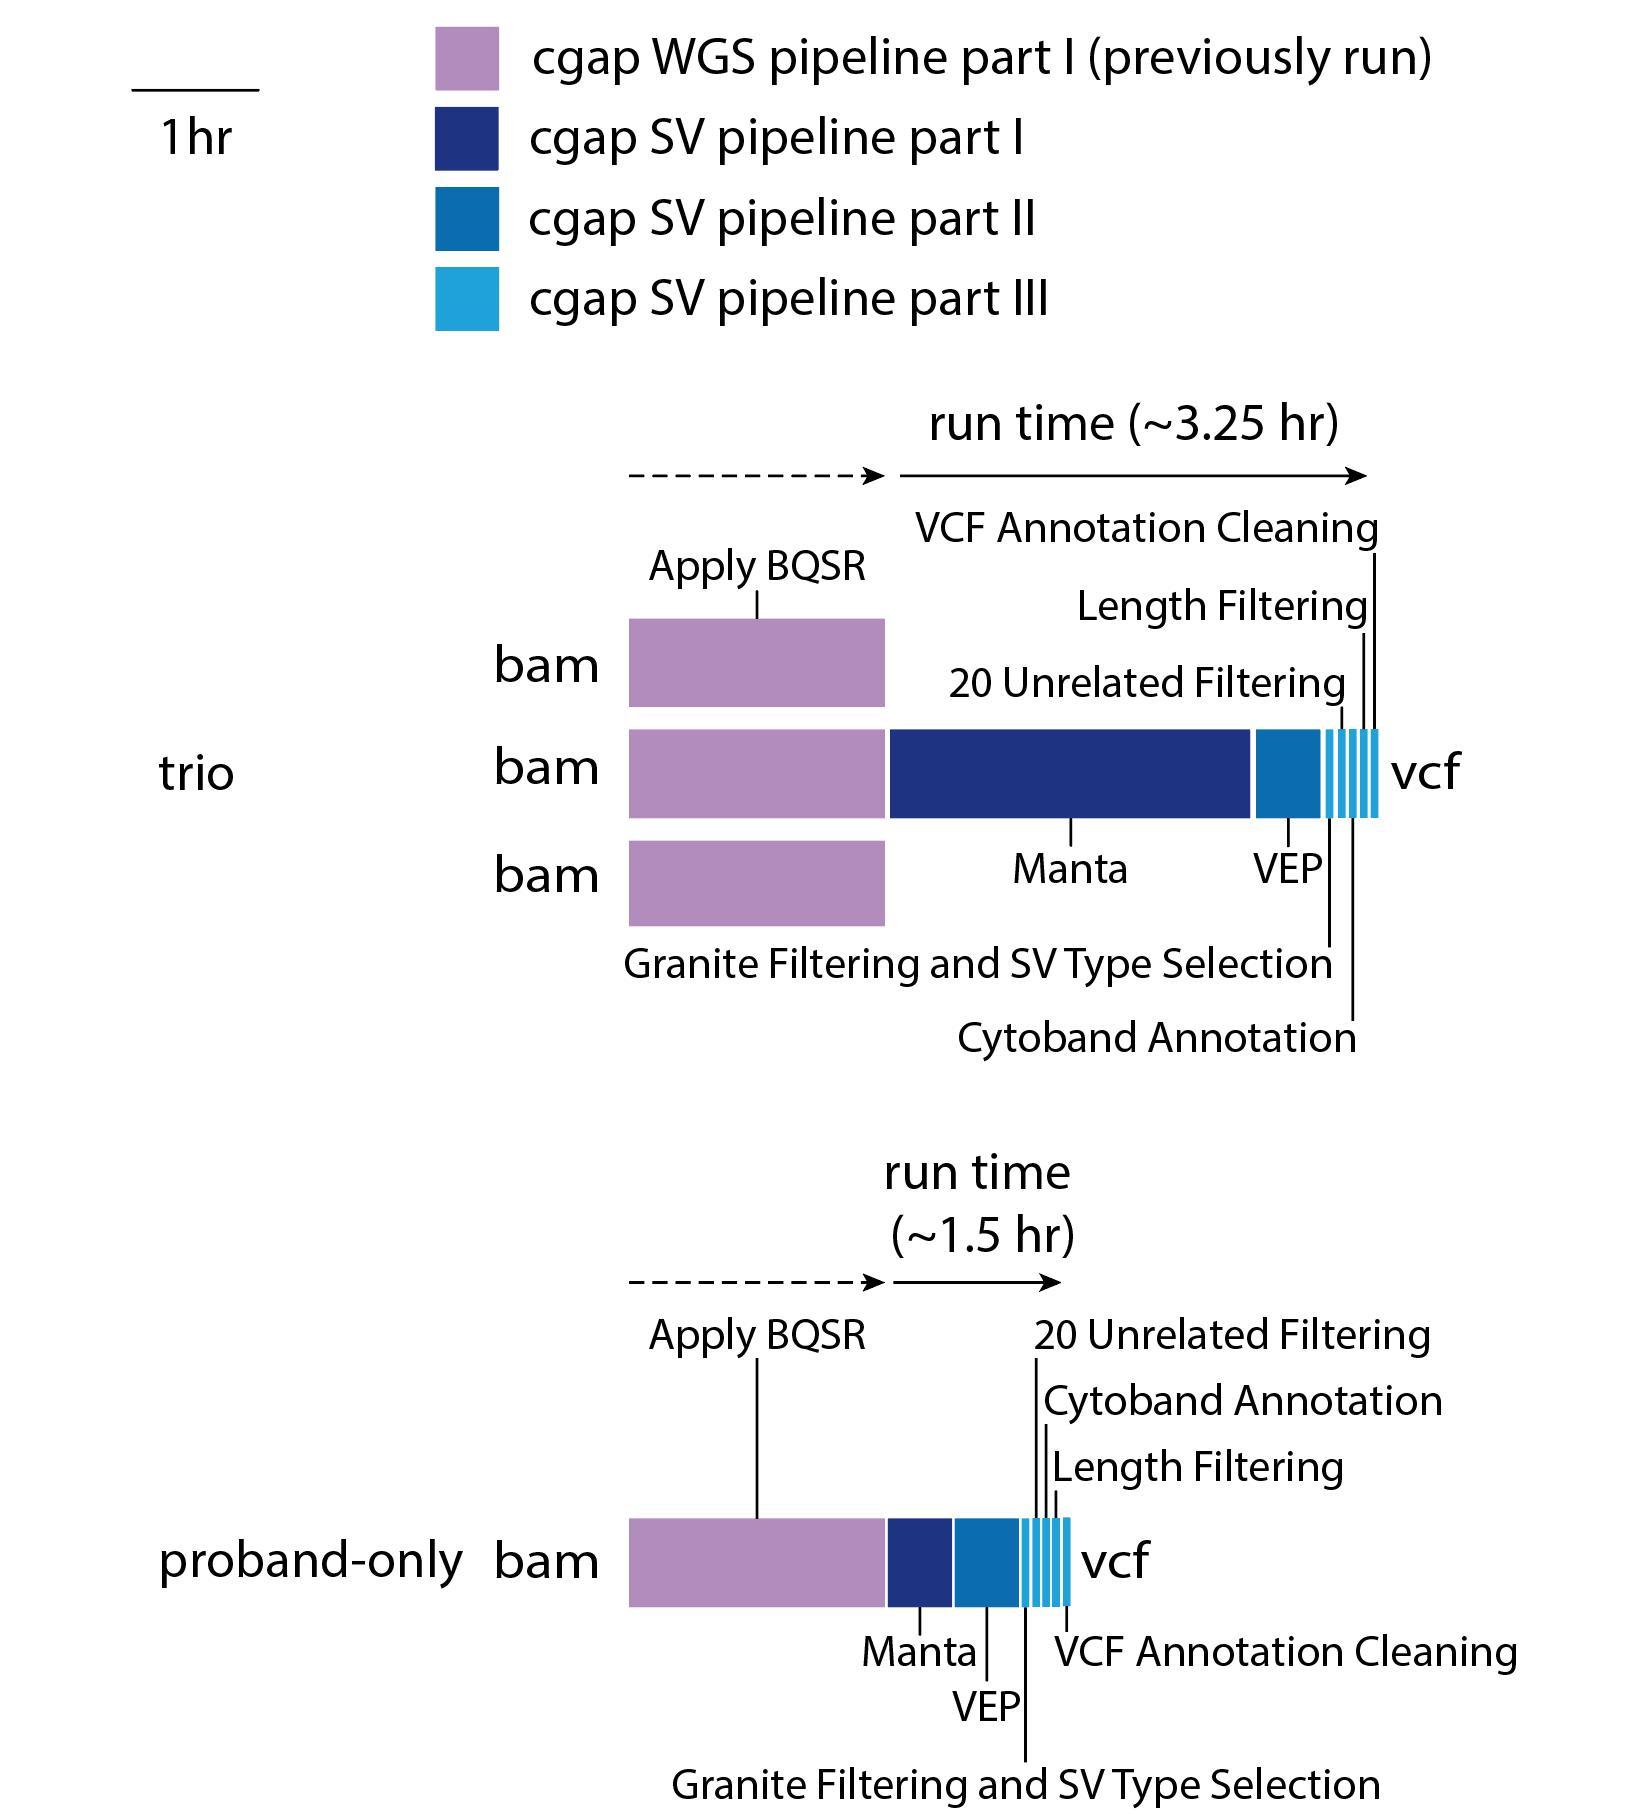
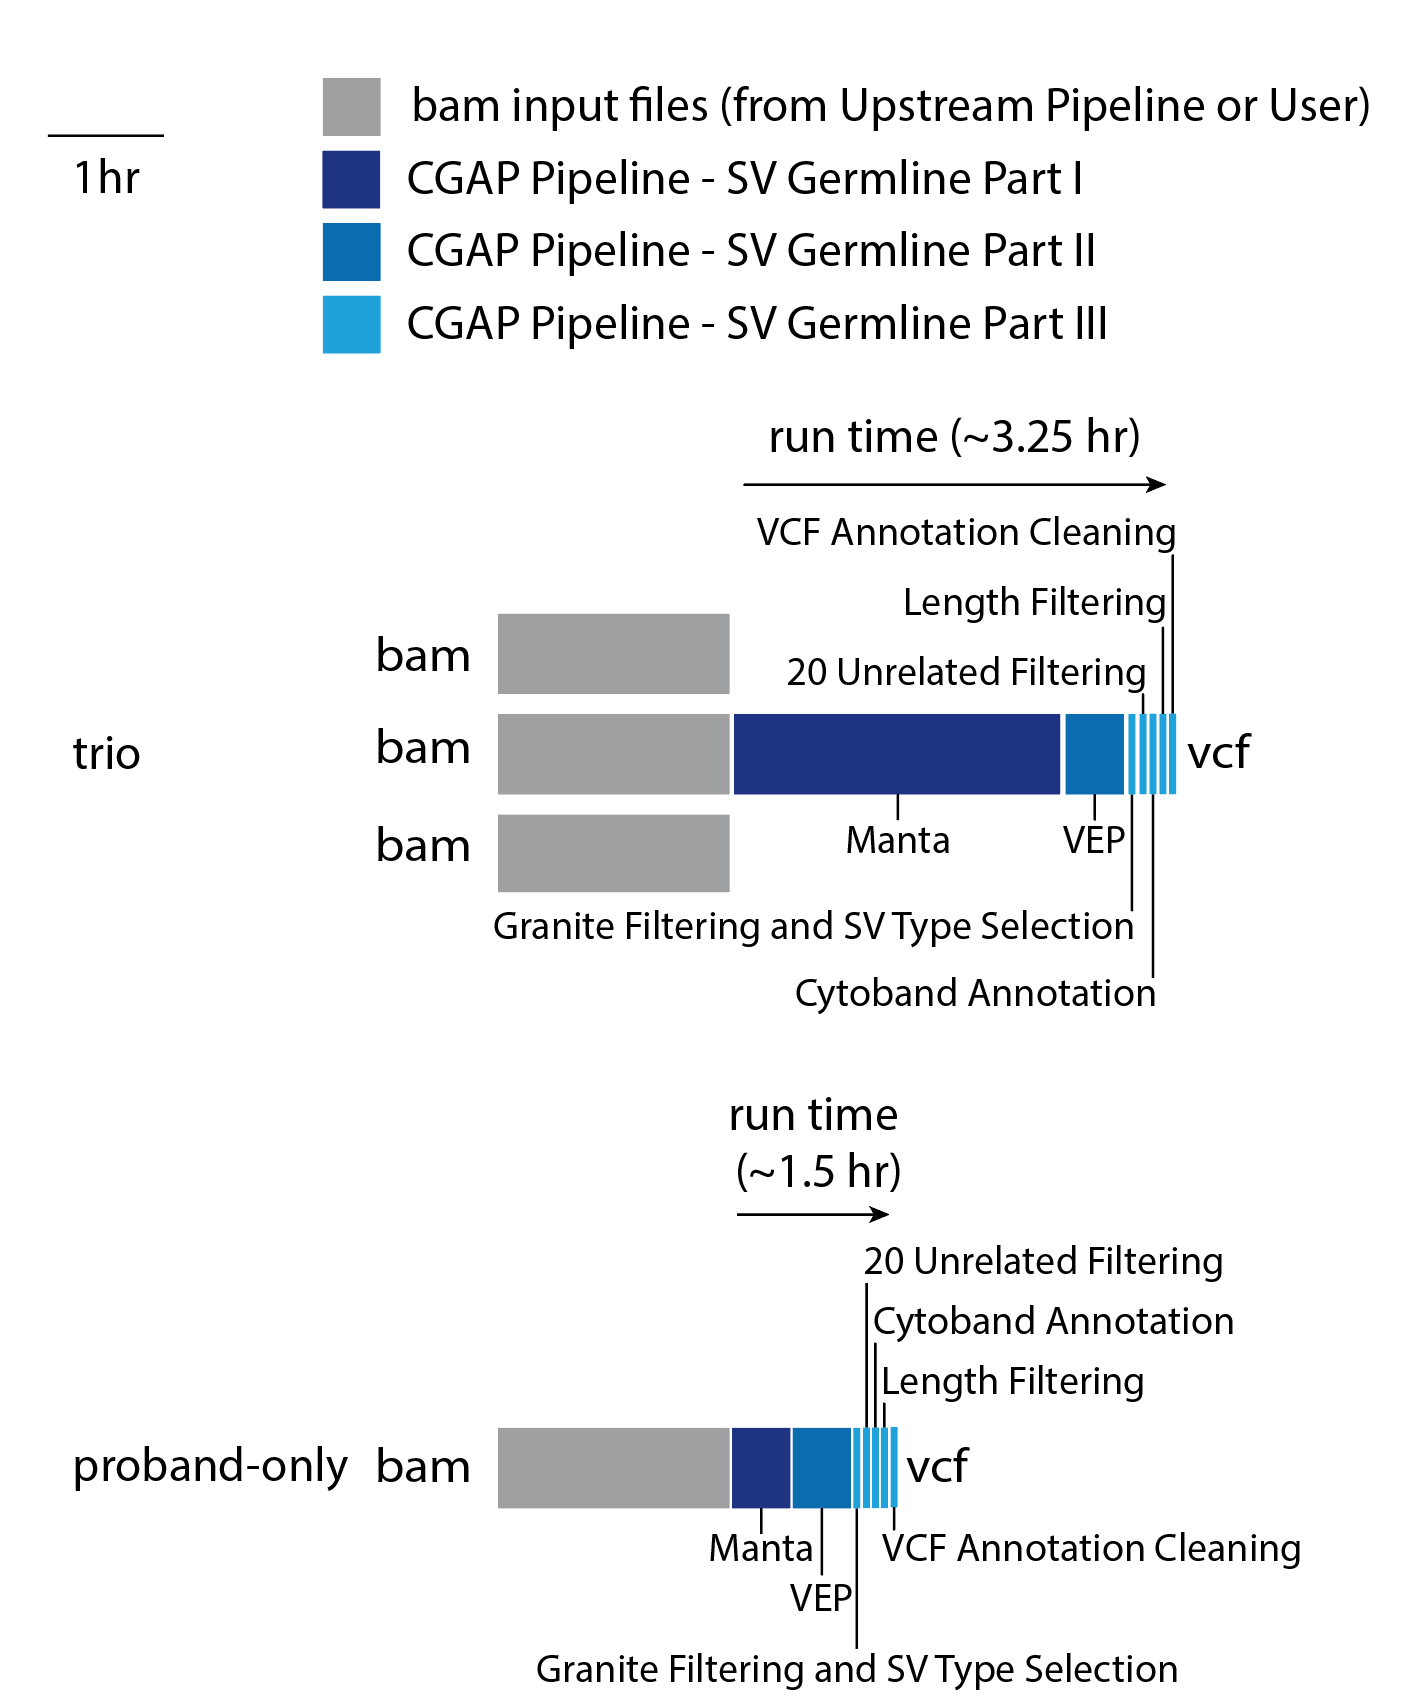
updating SV runtime figure

diff --git a/docs/Pipelines/Downstream/SV_germline/overview-SV_germline.rst b/docs/Pipelines/Downstream/SV_germline/overview-SV_germline.rst
@@ -8,7 +8,7 @@ The pipeline is mostly based on ``Manta`` (https://github.com/Illumina/manta), `
 
 The CGAP Pipeline SV Germline is designed for proband-only or trio analysis, with the proband diagnosed with a likely monogenic disease. It receives the initial ``bam`` file(s) from either of the `WGS Upstream pipelines <https://cgap-pipeline-master.readthedocs.io/en/latest/Pipelines/Upstream/Upstream_pipelines.html>`_.
 
-**Note**: CGAP Pipeline SV Germline is not optimized for Whole Exome Sequencing (WES) data.
+**Note**: CGAP Pipeline SV Germline is not optimized for Whole Exome Sequencing (WES) data. Also, if the user is providing their own ``bam`` file(s) as input, the ``bam`` file(s) must be mapped to ``hg38``.
 
 For proband-only analysis, a single ``bam`` file is provided to ``Manta`` and ``Single Diploid Sample Analysis`` is carried out, resulting in a ``vcf`` file containing SVs with genotypes for the proband.  For trio analysis, three ``bam`` files are provided to ``Manta`` and ``Joint Diploid Sample Analysis`` is carried out, resulting in a single ``vcf`` file containing SVs with genotypes for all three individuals.
 
@@ -47,7 +47,7 @@ Pipeline Parts
 
 Largely, the pipeline consists of three parts:
 
-  | Part 1. Beginning from ``bam`` file(s) generated by either of the available ``upstream pipelines`` of the `WGS Upstream pipelines <https://cgap-pipeline-master.readthedocs.io/en/latest/Pipelines/Upstream/Upstream_pipelines.html>`_, SVs are identified using ``Manta``
+  | Part 1. Beginning from ``bam`` file(s) generated by either of the available ``upstream pipelines`` of the `WGS Upstream pipelines <https://cgap-pipeline-master.readthedocs.io/en/latest/Pipelines/Upstream/Upstream_pipelines.html>`_, or provided by the user, SVs are identified using ``Manta``
   | Part 2. Annotation of SVs with ``VEP`` for transcripts and ``sansa`` for gnomAD-SV allele frequencies
   | Part 3. Filtering of SVs to remove non-relevant variants, false positives, common variants, and very long variants
 
